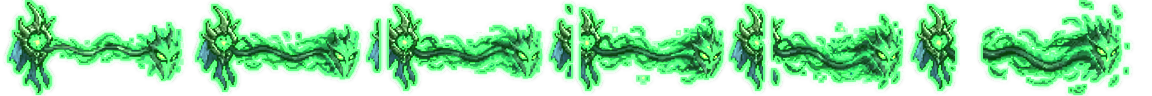
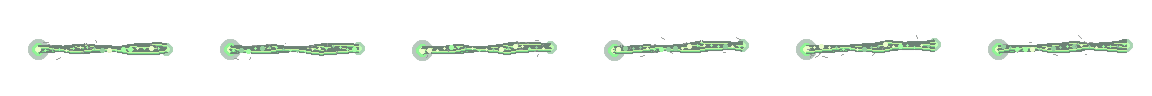
Fix Fiddlesticks portrait and drain tether (#67)

diff --git a/tools/ci_encyclopedia_visibility_check.py b/tools/ci_encyclopedia_visibility_check.py
@@ -592,6 +592,10 @@ FIDDLESTICKS_EFFECT_REFS = {
         "asset/bo_league_champions/aseprite_resources/effects/fiddlesticks_fear_projectile",
         "projectile",
     ),
+    "test_mod_fiddlesticks_drain_beam": (
+        "asset/bo_league_champions/aseprite_resources/effects/fiddlesticks_drain_tether",
+        "tether",
+    ),
 }
 FIDDLESTICKS_BUFF_REFS = {
     "test_mod_fiddlesticks_drain_active": (
@@ -624,10 +628,6 @@ FIDDLESTICKS_TARGET_VIEW_EFFECT_REFS = {
         "asset/bo_league_champions/aseprite_resources/effects/fiddlesticks_fear_mark",
         "fear",
     ),
-    "test_mod_fiddlesticks_drain_tether": (
-        "asset/bo_league_champions/aseprite_resources/effects/fiddlesticks_drain_tether",
-        "tether",
-    ),
 }
 COMPACT_DISPLAY_LIMITS = {
     "darius": {"max_width": 42, "max_height": 40, "min_bottom_safe": 12},
@@ -637,7 +637,7 @@ COMPACT_DISPLAY_LIMITS = {
 SIDE_CARD_STANDING_FACE_OFFSETS = {
     "aatrox": {"x": 2, "y": -16},
     "darius": {"x": 2, "y": -12},
-    "fiddlesticks": {"x": 1, "y": -18},
+    "fiddlesticks": {"x": 0, "y": -10},
     "kayn": {"x": 4, "y": -18},
     "thresh": {"x": 0, "y": -12},
     "viktor": {"x": 0, "y": -28},
@@ -3586,8 +3586,8 @@ def check_fiddlesticks_contract(text: dict[str, Any], entries: dict[str, Any]) -
         view = entries.get(fiddlesticks_id)
         if not isinstance(view, dict):
             fail(f"style/champion_view.champion_view missing entries.{fiddlesticks_id}")
-        if view.get("face", {}).get("x") != 1 or view.get("face", {}).get("y") != -18:
-            fail(f"style entry {fiddlesticks_id}.face must keep Fiddlesticks card portrait at x=1,y=-18")
+        if view.get("face", {}).get("x") != 0 or view.get("face", {}).get("y") != -10:
+            fail(f"style entry {fiddlesticks_id}.face must keep Fiddlesticks compact portrait at x=0,y=-10")
         if view.get("center", {}).get("x") != 0 or view.get("center", {}).get("y") != -14:
             fail(f"style entry {fiddlesticks_id}.center must keep Fiddlesticks standing display at x=0,y=-14")
 
@@ -3680,7 +3680,7 @@ def check_fiddlesticks_contract(text: dict[str, Any], entries: dict[str, Any]) -
         "test_mod_fiddlesticks_drain",
         "test_mod_fiddlesticks_crowstorm",
         "test_mod_fiddlesticks_fear_mark",
-        "test_mod_fiddlesticks_drain_tether",
+        "test_mod_fiddlesticks_drain_beam",
         "Fear",
         "Heal",
         "Teleport",
@@ -3690,11 +3690,15 @@ def check_fiddlesticks_contract(text: dict[str, Any], entries: dict[str, Any]) -
 
     projectile_refs = {item.get("name"): (item.get("anim"), item.get("tag")) for item in fiddlesticks.get("view_projectiles", [])}
     projectile_repeat = {item.get("name"): item.get("repeat") for item in fiddlesticks.get("view_projectiles", [])}
+    projectile_z = {item.get("name"): item.get("z") for item in fiddlesticks.get("view_projectiles", [])}
     for name, expected in FIDDLESTICKS_EFFECT_REFS.items():
         if projectile_refs.get(name) != expected:
             fail(f"champion/fiddlesticks.data_champion projectile {name} must reference {expected}")
         if projectile_repeat.get(name) is not True:
             fail(f"champion/fiddlesticks.data_champion projectile {name} must repeat so generated projectile art persists during travel")
+        expected_z = 2 if name == "test_mod_fiddlesticks_drain_beam" else 1
+        if projectile_z.get(name) != expected_z:
+            fail(f"champion/fiddlesticks.data_champion projectile {name} must render at z={expected_z}")
 
     buff_refs = {item.get("name"): (item.get("anim"), item.get("tag")) for item in fiddlesticks.get("view_buffs", [])}
     buff_z = {item.get("name"): item.get("z") for item in fiddlesticks.get("view_buffs", [])}
@@ -3740,9 +3744,24 @@ def check_fiddlesticks_contract(text: dict[str, Any], entries: dict[str, Any]) -
         if required not in skill_strings:
             fail(f"Fiddlesticks Terrify must apply visible target fear token {required}")
     skill2_strings = walk_strings(fiddlesticks.get("skill2", {}))
-    tether_count = skill2_strings.count("test_mod_fiddlesticks_drain_tether")
-    if tether_count < 6:
-        fail(f"Fiddlesticks Bountiful Harvest must show drain tether on every pulse, got {tether_count}")
+    if "test_mod_fiddlesticks_drain_tether" in skill2_strings:
+        fail("Fiddlesticks Bountiful Harvest must not attach a full tether ViewEffect to every target pulse")
+    drain_beams = [
+        node
+        for node in find_effect_nodes(fiddlesticks.get("skill2", {}), "LineRangeProjectile")
+        if node.get("name") == "test_mod_fiddlesticks_drain_beam"
+    ]
+    if len(drain_beams) != 1:
+        fail("Fiddlesticks Bountiful Harvest must create exactly one caster-to-target drain beam projectile")
+    drain_beam = drain_beams[0]
+    if drain_beam.get("applied_target") != "EnemyWithoutTower":
+        fail("Fiddlesticks drain beam must target enemies so the tether connects from Fiddlesticks to the drained unit")
+    if drain_beam.get("width") != 7000 or drain_beam.get("length") != 36000:
+        fail("Fiddlesticks drain beam must be a narrow single-target tether, not a wide AoE strip")
+    if drain_beam.get("apply") < 72 or drain_beam.get("delay") != 0:
+        fail("Fiddlesticks drain beam must persist through the full W channel")
+    if drain_beam.get("applied_effects") != []:
+        fail("Fiddlesticks drain beam must be visual-only; damage/heal pulses stay in the W channel logic")
     crowstorm_buffs = [
         node
         for node in find_effect_nodes(fiddlesticks.get("ult", {}), "AddCasterBuff")
@@ -3803,11 +3822,20 @@ def check_fiddlesticks_contract(text: dict[str, Any], entries: dict[str, Any]) -
         ROOT / "aseprite_resources" / "effects" / "fiddlesticks_drain_tether#anim.fanim",
         "tether",
         "Fiddlesticks Bountiful Harvest drain tether VFX",
-        min_visible=8000,
-        min_color_bins=420,
-        min_height=88,
-        min_fill_ratio=0.42,
-        max_width=192,
+        min_visible=1000,
+        min_color_bins=45,
+        min_height=18,
+        min_fill_ratio=0.20,
+        max_width=155,
+    )
+    assert_effect_frame_bbox_limits(
+        ROOT / "aseprite_resources" / "effects" / "fiddlesticks_drain_tether#sheet.png",
+        ROOT / "aseprite_resources" / "effects" / "fiddlesticks_drain_tether#anim.fanim",
+        "tether",
+        "Fiddlesticks Bountiful Harvest drain tether VFX",
+        max_width=155,
+        max_height=32,
+        min_margin=8,
     )
     assert_generated_vfx_volume(
         ROOT / "aseprite_resources" / "effects" / "fiddlesticks_crowstorm#sheet.png",

diff --git a/tools/local_runtime_encyclopedia_check.py b/tools/local_runtime_encyclopedia_check.py
@@ -17,6 +17,7 @@ CHAMPION_IDS = (
     f"{MOD_ID}_jinx",
     f"{MOD_ID}_thresh",
     f"{MOD_ID}_viktor",
+    f"{MOD_ID}_fiddlesticks",
 )
 AATROX_SOUND_EVENTS = (
     "test_mod_aatrox_attack_cast",
@@ -167,6 +168,7 @@ SIDE_CARD_STANDING_FACE_OFFSETS = {
     f"{MOD_ID}_kayn": {"x": 4, "y": -18},
     f"{MOD_ID}_thresh": {"x": 0, "y": -12},
     f"{MOD_ID}_viktor": {"x": 0, "y": -28},
+    f"{MOD_ID}_fiddlesticks": {"x": 0, "y": -10},
 }
 SIDE_CARD_STANDING_CENTER_OFFSETS = {
     f"{MOD_ID}_aatrox": {"x": 4, "y": -12},
@@ -174,6 +176,7 @@ SIDE_CARD_STANDING_CENTER_OFFSETS = {
     f"{MOD_ID}_kayn": {"x": 0, "y": -12},
     f"{MOD_ID}_thresh": {"x": 0, "y": -12},
     f"{MOD_ID}_viktor": {"x": 0, "y": -12},
+    f"{MOD_ID}_fiddlesticks": {"x": 0, "y": -14},
 }
 
 
@@ -389,16 +392,49 @@ def check_fiddlesticks_ult_visibility(path: Path, champion: object) -> None:
         return
     if not isinstance(champion, dict):
         fail(f"{path} must contain a JSON object")
+    view_projectile_rows = champion.get("view_projectiles", [])
     view_buff_rows = champion.get("view_buffs", [])
     view_effect_rows = champion.get("view_effects", [])
-    if not isinstance(view_buff_rows, list) or not isinstance(view_effect_rows, list):
-        fail(f"{path} view_buffs and view_effects must be lists")
+    if not isinstance(view_projectile_rows, list) or not isinstance(view_buff_rows, list) or not isinstance(view_effect_rows, list):
+        fail(f"{path} view_projectiles, view_buffs, and view_effects must be lists")
+    projectile_rows = {item.get("name"): item for item in view_projectile_rows if isinstance(item, dict)}
+    drain_projectile = projectile_rows.get("test_mod_fiddlesticks_drain_beam")
+    if not isinstance(drain_projectile, dict):
+        fail("runtime Fiddlesticks W must use a caster-to-target drain beam projectile")
+    if (
+        drain_projectile.get("anim") != "asset/bo_league_champions/aseprite_resources/effects/fiddlesticks_drain_tether"
+        or drain_projectile.get("tag") != "tether"
+        or drain_projectile.get("z") != 2
+        or drain_projectile.get("repeat") is not True
+    ):
+        fail("runtime Fiddlesticks drain beam projectile must use the generated tether art at z=2 and repeat during the channel")
     buff_z = {item.get("name"): item.get("z") for item in view_buff_rows if isinstance(item, dict)}
     effect_z = {item.get("name"): item.get("z") for item in view_effect_rows if isinstance(item, dict)}
+    if "test_mod_fiddlesticks_drain_tether" in effect_z:
+        fail("runtime Fiddlesticks W must not attach a full tether ViewEffect at the target point")
     if buff_z.get("test_mod_fiddlesticks_crowstorm_active") != 2:
         fail("runtime Fiddlesticks Crowstorm buff must render at z=2")
     if effect_z.get("test_mod_fiddlesticks_crowstorm") != 2:
         fail("runtime Fiddlesticks Crowstorm view effect must render at z=2")
+    drain_beams = [
+        node
+        for node in iter_mapping_nodes(champion.get("skill2", {}))
+        if node.get("type") == "LineRangeProjectile"
+        and node.get("name") == "test_mod_fiddlesticks_drain_beam"
+    ]
+    if len(drain_beams) != 1:
+        fail("runtime Fiddlesticks W must create exactly one source-to-target drain beam")
+    drain_beam = drain_beams[0]
+    if drain_beam.get("applied_target") != "EnemyWithoutTower":
+        fail("runtime Fiddlesticks drain beam must connect to enemy units")
+    if drain_beam.get("width") != 7000 or drain_beam.get("length") != 36000:
+        fail("runtime Fiddlesticks drain beam must be a narrow line, not a wide body-covering strip")
+    if drain_beam.get("delay") != 0 or drain_beam.get("apply", 0) < 72:
+        fail("runtime Fiddlesticks drain beam must persist for the full W channel")
+    if drain_beam.get("applied_effects") != []:
+        fail("runtime Fiddlesticks drain beam must remain visual-only; W pulses own the damage/heal")
+    if any(node.get("name") == "test_mod_fiddlesticks_drain_tether" for node in iter_mapping_nodes(champion.get("skill2", {}))):
+        fail("runtime Fiddlesticks W still references the retired target-point drain tether")
     crowstorm_buffs = [
         node
         for node in iter_mapping_nodes(champion.get("ult", {}))
@@ -485,6 +521,8 @@ def check_runtime_copy(game_root: Path) -> None:
         "aseprite_resources/champions/thresh#anim.fanim",
         "aseprite_resources/champions/viktor#sheet.png",
         "aseprite_resources/champions/viktor#anim.fanim",
+        "aseprite_resources/champions/fiddlesticks#sheet.png",
+        "aseprite_resources/champions/fiddlesticks#anim.fanim",
         "aseprite_resources/effects/kayn_q_slash#sheet.png",
         "aseprite_resources/effects/kayn_q_slash#anim.fanim",
         "aseprite_resources/effects/kayn_w_blade_reach#sheet.png",
@@ -559,8 +597,21 @@ def check_runtime_copy(game_root: Path) -> None:
         "aseprite_resources/effects/viktor_evolution_aura#anim.fanim",
         "aseprite_resources/effects/viktor_storm_impact#sheet.png",
         "aseprite_resources/effects/viktor_storm_impact#anim.fanim",
+        "aseprite_resources/effects/fiddlesticks_attack_projectile#sheet.png",
+        "aseprite_resources/effects/fiddlesticks_attack_projectile#anim.fanim",
+        "aseprite_resources/effects/fiddlesticks_fear_projectile#sheet.png",
+        "aseprite_resources/effects/fiddlesticks_fear_projectile#anim.fanim",
+        "aseprite_resources/effects/fiddlesticks_fear_mark#sheet.png",
+        "aseprite_resources/effects/fiddlesticks_fear_mark#anim.fanim",
+        "aseprite_resources/effects/fiddlesticks_drain#sheet.png",
+        "aseprite_resources/effects/fiddlesticks_drain#anim.fanim",
+        "aseprite_resources/effects/fiddlesticks_drain_tether#sheet.png",
+        "aseprite_resources/effects/fiddlesticks_drain_tether#anim.fanim",
         "aseprite_resources/effects/fiddlesticks_crowstorm#sheet.png",
         "aseprite_resources/effects/fiddlesticks_crowstorm#anim.fanim",
+        "icons/fiddlesticks_skill.png",
+        "icons/fiddlesticks_skill2.png",
+        "icons/fiddlesticks_ult.png",
         "icons/kayn_skill.png",
         "icons/kayn_skill2.png",
         "icons/kayn_ult.png",